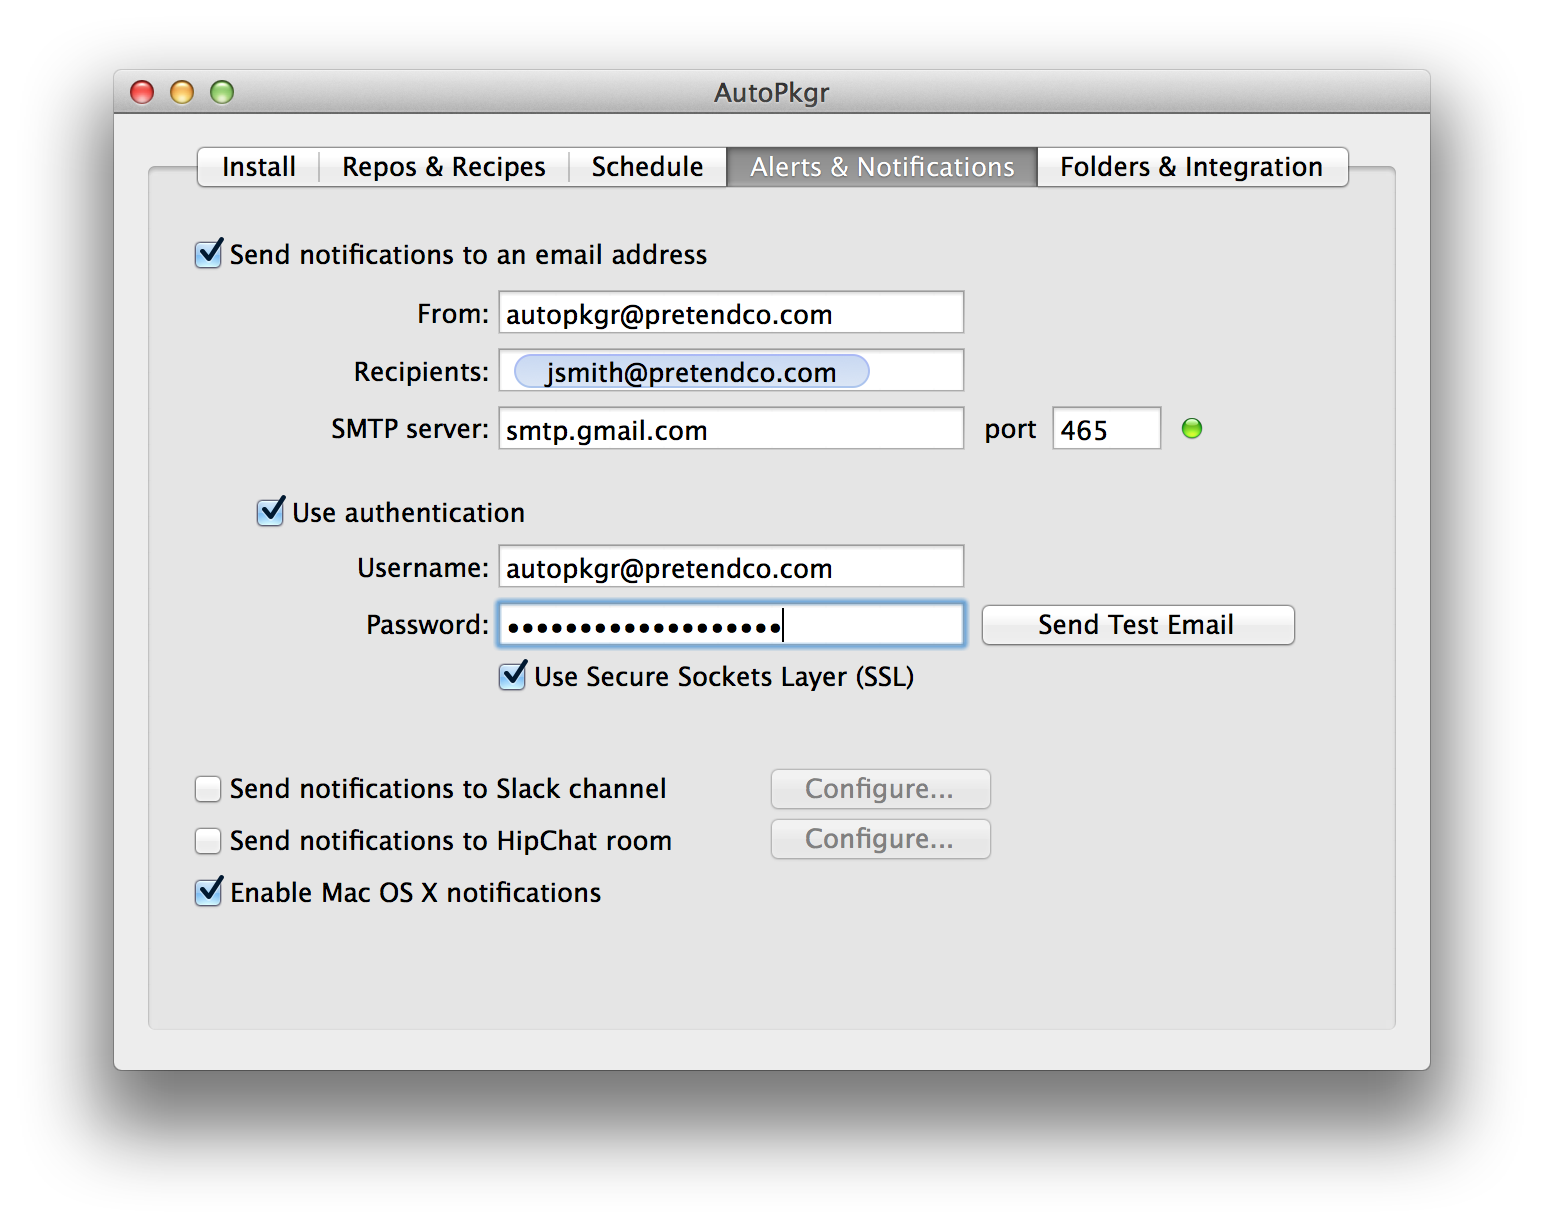
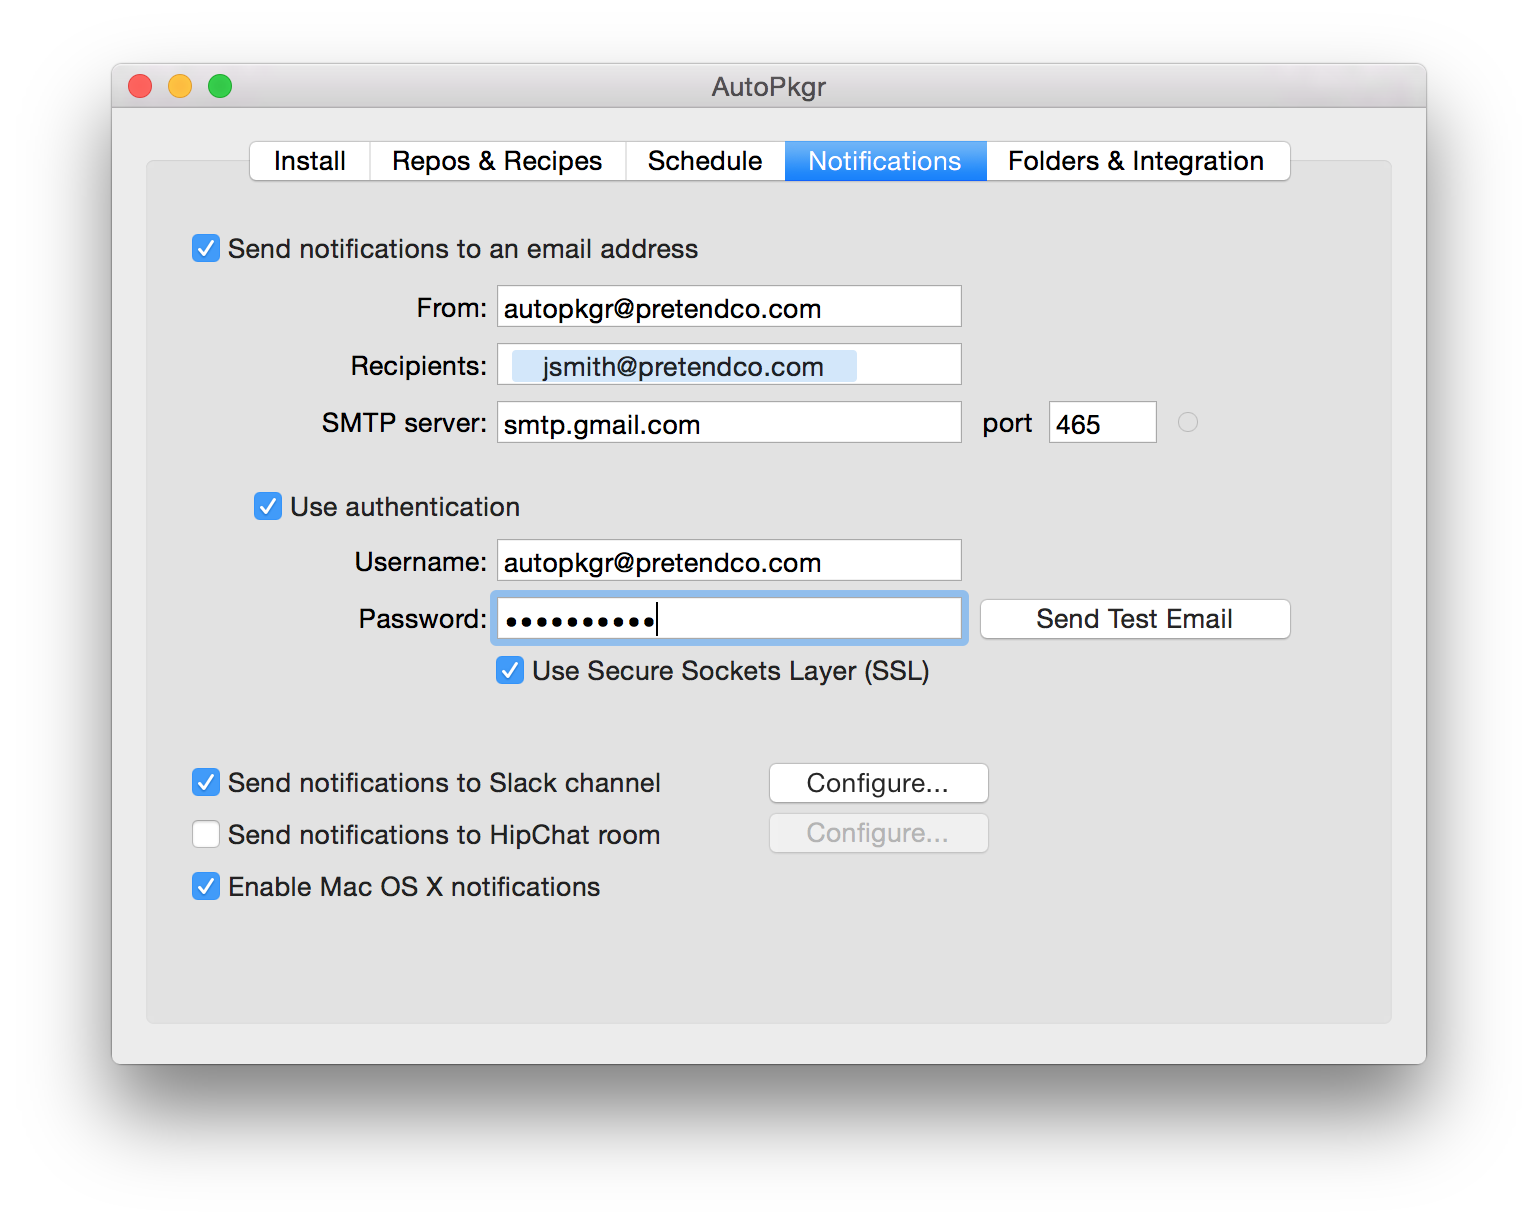
Continued updating readme.

diff --git a/README.md b/README.md
@@ -80,31 +80,38 @@ Download the [latest release](https://github.com/lindegroup/autopkgr/releases/la
 
 1.  Set your automatic update checking preferences. Most people like to check about once per day.
 
+    :warning: &nbsp; Only choose "Update all repos before each AutoPkg run" if you know and trust the authors of the recipes you subscribe to.
+
 1.  Switch to the __Notifications__ tab.
+    ![Notifications](doc-images/config_tab4.png)
 
-![Notifications](doc-images/config_tab4.png)
-
-1.  Configure email and/or Slack notifications, if desired.
-
-1.  Click __Save and Close__.
+1.  Configure email, Slack, or HipChat notifications as desired.
 
 That's it! AutoPkgr will now check for the latest app updates you specified, and when an update is available you'll receive a notification.
 
 Anytime you'd like to make changes to AutoPkgr's configuration, just click on the AutoPkgr icon in the menu bar (![Menu bar icon](doc-images/menulet.png)), and choose __AutoPkgr Preferences...__
 
-You'll also find some useful shortcuts on the __Folders & Integration__ tab, which will take you directly to several convenient AutoPkg folders. On that tab, you can also configure integration with various software distribution methods (see below).
+You'll also find some useful shortcuts on the __Folders & Integration__ tab, which will take you directly to several convenient AutoPkg folders. On that tab, you can also configure integration with Munki, Casper, and other software deployment systems (see below).
 
-![Local Folders](doc-images/config_tab5.png)
+![Folders & Integration](doc-images/config_tab5.png)
 
 ![divider](doc-images/divider.png)
 
 ## Searching for Recipes
 
-AutoPkgr can help you find recipes for the apps you want. In the __Recipes & Repos__ tab, click the __Search for more recipes__ button. Enter the name of the app you're looking for in the search box, and type __Return__ to search.
+AutoPkgr can help you find recipes for the apps you want. In the __Recipes & Repos__ tab, enter the name of the app into the "Search for a recipe on GitHub" field, and click __Search__.
 
-Search results (and their corresponding repos) will be displayed below. Click the __Add__ button to add the repo, then click Done and add the recipe in the __Recipes & Repos__ tab.
+![Search for a Recipe](doc-images/recipe_search1.png)
 
-![Search Results](doc-images/search_results.png)
+From the list of results, select your desired recipe. If the repo is not already added (as shown by the green indicator), then click __Add Repo__.
+
+![Add a Repo](doc-images/recipe_search2.png)
+
+Click __Close__ to return to the recipe list. Then you should see the newly-added recipe in your available recipes list. Click the checkbox next to the recipe you want, and it will be included in future scheduled AutoPkg runs.
+
+![Add the Recipe](doc-images/recipe_search3.png)
+
+Don't see a recipe for an app you use? [Write one](https://github.com/autopkg/autopkg/wiki/Recipe-Format)!
 
 ![divider](doc-images/divider.png)
 
@@ -118,19 +125,25 @@ We've tried to simplify the process of creating and editing AutoPkg recipe overr
 
 ## Integrations
 
+AutoPkgr makes it as easy as possible to integrate with these software distribution systems:
+
 ### Integration with Munki
+
+:bulb: &nbsp; _Note: Requires the [Munki tools](https://www.munki.org/munki/) to be installed on the Mac running AutoPkgr._
 
 To configure AutoPkgr to add updates directly into your Munki repository, follow these steps:
 
 1. Click on the __Folders & Integration__ tab.
-1. Click on the __Configure Munki tools__ button.
-1. Click __Choose__, then select your munki_repo folder.
+1. If Munki tools are not already installed, click on the __Install Munki tools__ button. Enter your password if prompted.
+1. If your Munki repo is not located at `/Users/Shared/munki_repo`, click on the __Configure Munki tools...__ button, click __Choose__, and browse to your munki_repo.
+    ![Munki repo](doc-images/integration_munki.png)
+    Click __Close and Save__.
 
 You'll also want to make sure you have `.munki` recipes selected for each app you want to import. Once the new versions of apps appear in your Munki repo, you can add them to the appropriate catalogs and manifests to deploy them.
 
 ### Integration with Casper
 
-Note: Requires Casper version 9 or newer.
+:bulb: &nbsp; _Note: Requires Casper version 9 or newer._
 
 To configure AutoPkgr to create Self Service policies in Casper for new app updates, follow these steps:
 
@@ -145,10 +158,12 @@ To configure AutoPkgr to create Self Service policies in Casper for new app upda
     - __Smart Computer Groups__
     - __Static Computer Groups__
 1. Open AutoPkgr and go to the __Folders & Integration__ tab.
-1. Click the __Install JSSImporter__ button. Enter your password when prompted.
+1. Click the __Install JSSImporter__ button. Enter your password if prompted.
 1. Click on __Configure JSSImporter__.
 1. Enter your JSS URL, API username, and API password. Then click __Connect__.
+    ![Casper Settings](doc-images/integration_casper.png)
 1. When prompted, enter the read/write password for each distribution point.
+1. Click __Close and Save__.
 
 You'll also want to make sure you have a few `.jss` recipes selected. AutoPkgr will automatically add the "official" [jss-recipes](https://github.com/autopkg/jss-recipes) repo so you'll have a few to choose from right away.
 
@@ -158,21 +173,39 @@ For detailed information on JSS recipe behavior, check out the [README for jss-r
 
 ### Integration with Absolute Manage
 
-Requires Absolute Manage version ___ or newer.
+:warning: &nbsp; _Absolute Manage integration is still in beta. We welcome [your feedback](https://github.com/lindegroup/autopkgr/issues/new)._
+
+:bulb: &nbsp; _Notes and requirements for Absolute Manage integration:_
+
+- _Absolute Manage version 6.5 or newer is required._
+- _The Absolute Manage Admin app should be installed in your Applications folder._
+- _Launch Absolute Manage Admin and connect the app to your Absolute Manage server._
+- _In order to run `.absolute` recipes, your Mac needs to be logged in and the Absolute Manage Admin app needs to be running._
 
 To configure AutoPkgr to add updates directly into your Absolute Manage server, follow these steps:
 
-1. one
-2. two
-3. three
+1. Click on the __Folders & Integration__ tab.
+1. Click on the __Install AMExporter__ button. Enter your password when prompted.
+1. Click on the __Configure AMExporter...__ button. Select the __Enable External SD Package Upload__ option if desired.
+    ![Absolute Manage Settings](doc-images/integration_absolute.png)
+    Click __Close and Save__.
+
+You'll also want to make sure you have a few `.absolute` recipes selected. There is no official repository for Absolute Manage recipes yet, but if you add the `seansgm-recipes` repository, you'll see a few to get you started.
 
 ### Integration with MacPatch
 
+:warning: &nbsp; _MacPatch integration is still in beta. We welcome [your feedback](https://github.com/lindegroup/autopkgr/issues/new)._
+
+:bulb: &nbsp; _Note: Requires you to have the default recipe repo added._
+![MacPatch requirements](doc-images/integration_macpatch_reqs.png)
+
 To configure AutoPkgr to add updates directly into your MacPatch server, follow these steps:
 
-1. one
-2. two
-3. three
+1. Click on the __Folders & Integration__ tab.
+1. Click on the __Install MacPatchImporter__ button. Enter your password when prompted.
+1. Click on the __Configure MacPatchImporter...__ button. Enter the URL, username, and password for your MacPatch server.
+    ![MacPatch Settings](doc-images/integration_macpatch.png)
+    Click __Close and Save__.
 
 ![divider](doc-images/divider.png)
 
